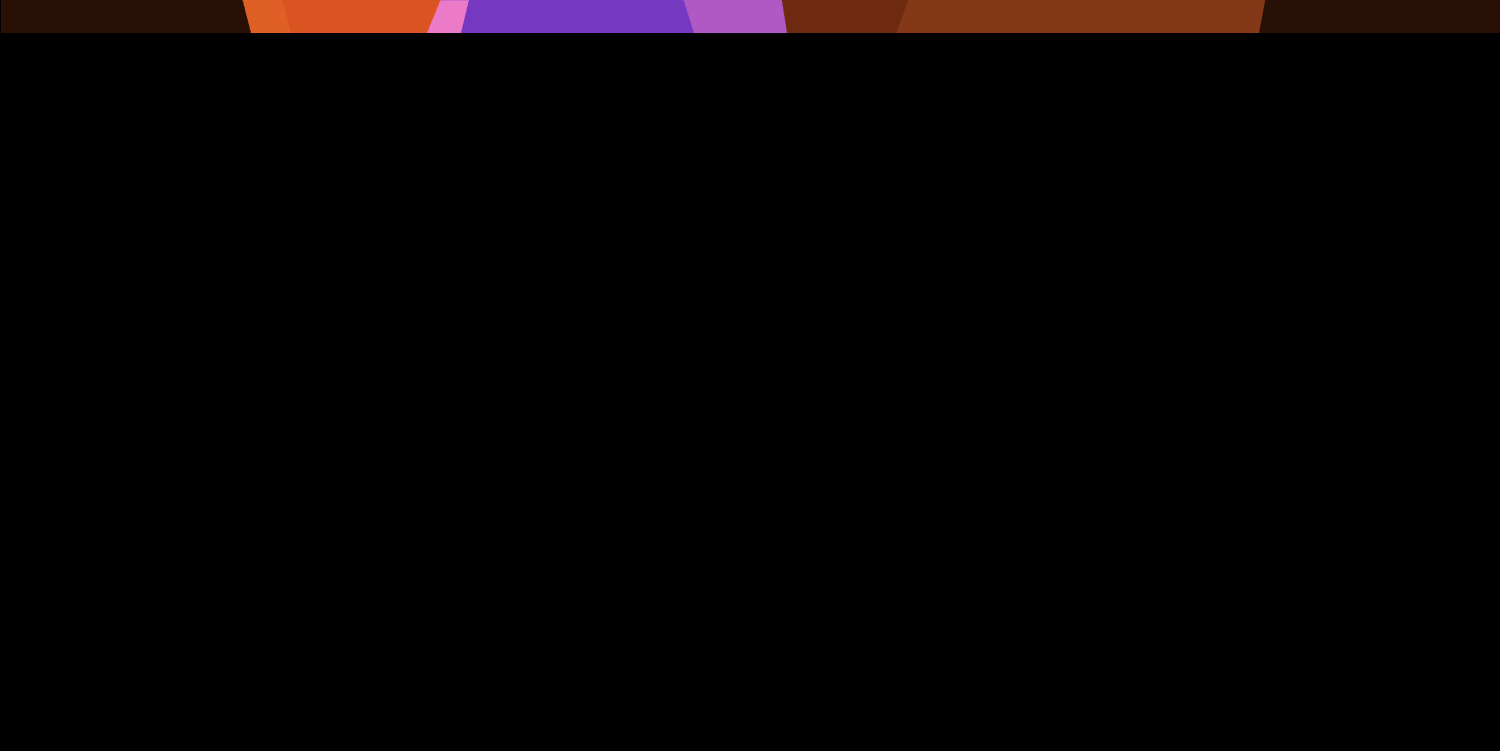
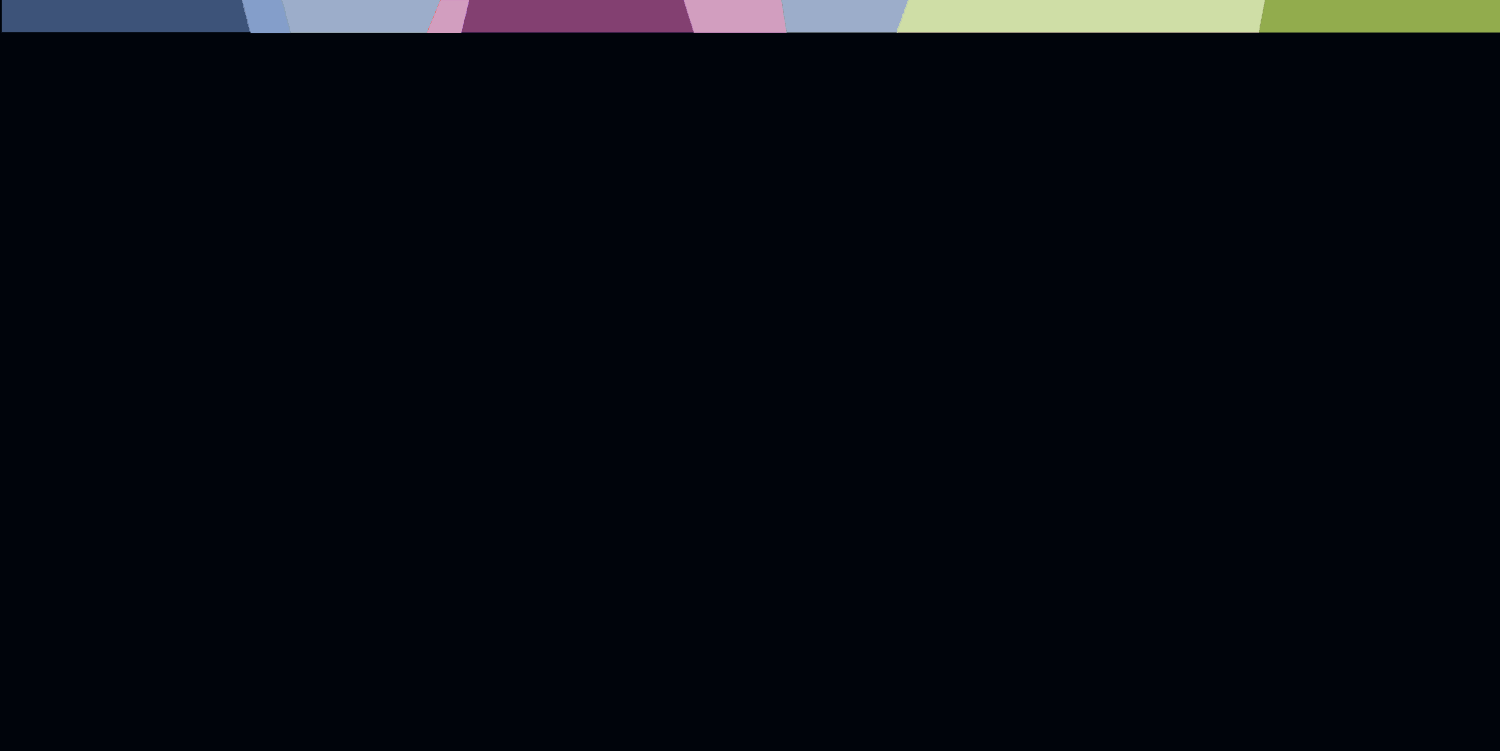
Tweaked night color scheme
1. refined pictures
2. locked down the color scheme

Changed region(s): [[0.0, 0.0, 1.0, 0.0613]]

diff --git a/Styles/Common.xaml b/Styles/Common.xaml
@@ -135,7 +135,12 @@ Copyright (c) Microsoft Corporation.  All rights reserved.
 									<ColorAnimation Duration="0" To="{StaticResource DefaultGreen}" Storyboard.TargetProperty="(Control.Foreground).(SolidColorBrush.Color)" Storyboard.TargetName="ContentContainer" d:IsOptimized="True"/>
 								</Storyboard>
 							</VisualState>
-							<VisualState x:Name="MouseOver"/>
+							<VisualState x:Name="MouseOver">
+								<Storyboard>
+									<ColorAnimation Duration="0" To="{StaticResource DefaultBlue}" Storyboard.TargetProperty="(Border.Background).(SolidColorBrush.Color)" Storyboard.TargetName="ButtonBackground" d:IsOptimized="True"/>
+									<ColorAnimation Duration="0" To="{StaticResource DefaultBackgroundColor}" Storyboard.TargetProperty="(Control.Foreground).(SolidColorBrush.Color)" Storyboard.TargetName="ContentContainer" d:IsOptimized="True"/>
+								</Storyboard>
+							</VisualState>
 							<VisualState x:Name="Pressed">
 								<Storyboard>
 									<ColorAnimation Duration="0" To="{StaticResource DefaultBlue}" Storyboard.TargetProperty="(Border.Background).(SolidColorBrush.Color)" Storyboard.TargetName="ButtonBackground" d:IsOptimized="True"/>
@@ -145,7 +150,7 @@ Copyright (c) Microsoft Corporation.  All rights reserved.
 							<VisualState x:Name="Disabled">
 								<Storyboard>
 									<ColorAnimation Duration="0" To="{StaticResource DefaultBackgroundColor}" Storyboard.TargetProperty="(Border.Background).(SolidColorBrush.Color)" Storyboard.TargetName="ButtonBackground" d:IsOptimized="True"/>
-									<ColorAnimation Duration="0" To="{StaticResource PhoneRadioCheckBoxCheckDisabledColor}" Storyboard.TargetProperty="(Control.Foreground).(SolidColorBrush.Color)" Storyboard.TargetName="ContentContainer" d:IsOptimized="True"/>
+									<ColorAnimation Duration="0" To="{StaticResource DefaultSubtle}" Storyboard.TargetProperty="(Control.Foreground).(SolidColorBrush.Color)" Storyboard.TargetName="ContentContainer" d:IsOptimized="True"/>
 									<!--
 									<ObjectAnimationUsingKeyFrames Storyboard.TargetProperty="BorderBrush" Storyboard.TargetName="ButtonBackground">
 										<DiscreteObjectKeyFrame KeyTime="0" Value="{StaticResource PhoneDisabledBrush}"/>

diff --git a/Styles/Night.xaml b/Styles/Night.xaml
@@ -9,11 +9,11 @@ Copyright (c) Microsoft Corporation.  All rights reserved.
 
     <!-- Common colors -->
 
-    <Color x:Key="DefaultBlue">#FFFF9966</Color>
-    <Color x:Key="DefaultGreen">#FF9F63E8</Color>
-    <Color x:Key="DefaultBackgroundColor">#FF000000</Color>
-    <Color x:Key="DefaultForegroundColor">#DCFFFFFF</Color>
-    <Color x:Key="DefaultSubtle">#99FFFFFF</Color>
+    <Color x:Key="DefaultBlue">#FFD29EBF</Color>
+    <Color x:Key="DefaultGreen">#FFCFDEA6</Color>
+    <Color x:Key="DefaultBackgroundColor">#FF00040B</Color>
+    <Color x:Key="DefaultForegroundColor">White</Color>
+    <Color x:Key="DefaultSubtle">#FF1E293D</Color>
     <SolidColorBrush x:Key="DefaultForeground" Color="{StaticResource DefaultForegroundColor}"/>
     <SolidColorBrush x:Key="DefaultBackground" Color="{StaticResource DefaultBackgroundColor}"/>
     <SolidColorBrush x:Key="DefaultBlueBrush" Color="{StaticResource DefaultBlue}"/>

diff --git a/about.xaml b/about.xaml
@@ -17,7 +17,7 @@
 			<Setter Property="FontSize" Value="{StaticResource TextSizeText}"/>
 			<Setter Property="Foreground">
 				<Setter.Value>
-					<SolidColorBrush Color="{StaticResource DefaultForegroundColor}" Opacity="0.8"/>
+					<SolidColorBrush Color="{StaticResource DefaultForegroundColor}"/>
 				</Setter.Value>
 			</Setter>
 			<Setter Property="TextWrapping" Value="Wrap"/>
